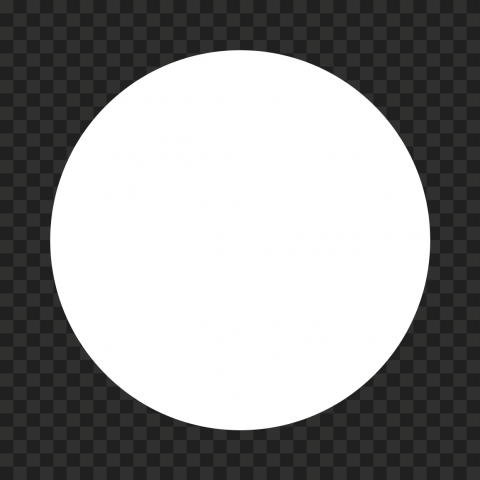
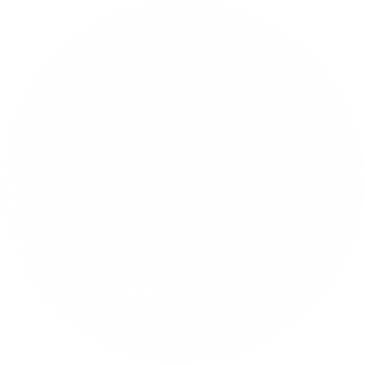
fixed white_circle

diff --git a/main.py b/main.py
@@ -1,25 +1,31 @@
 import sys, pygame
-pygame.init()
 
-size = width, height = 320, 240
-speed = [2, 2]
-black = 0, 0, 0
+def main():
+  pygame.init()
+  size = width, height = 320, 240
+  speed = [2, 2]
+  black = 0, 0, 0
 
-screen = pygame.display.set_mode(size)
+  screen = pygame.display.set_mode(size)
 
-ball = pygame.image.load("white_circle.png")
-ballrect = ball.get_rect()
+  DEFAULT_IMAGE_SIZE = (50,50)
+  image = pygame.image.load("./images/white_circle.png")
+  ball = pygame.transform.scale(image, DEFAULT_IMAGE_SIZE)
+  ballrect = ball.get_rect()
 
-while True:
-  for event in pygame.event.get():
-    if event.type == pygame.QUIT: sys.exit()
+  while True:
+    for event in pygame.event.get():
+      if event.type == pygame.QUIT: sys.exit()
 
-  ballrect = ballrect.move(speed)
-  if ballrect.left < 0 or ballrect.right > width:
-    speed[0] = -speed[0]
-  if ballrect.top < 0 or ballrect.bottom > height:
-    speed[1] = -speed[1]
+    ballrect = ballrect.move(speed)
+    if ballrect.left < 0 or ballrect.right > width:
+      speed[0] = -speed[0]
+    if ballrect.top < 0 or ballrect.bottom > height:
+      speed[1] = -speed[1]
 
-  screen.fill(black)
-  screen.blit(ball, ballrect)
-  pygame.display.flip()
+    screen.fill(black)
+    screen.blit(ball, ballrect)
+    pygame.display.flip()
+
+if __name__ == "__main__":
+  main()

diff --git a/README.md b/README.md
@@ -1,4 +1,14 @@
 # REQUIREMENTS
 
+- python 3.7.7+
 - pygame
   - python3 -m pip install -U pygame --user
+
+# HOW TO RUN
+
+- python3 main.py
+
+# CREATED BY
+
+- Austin Sohn
+-
